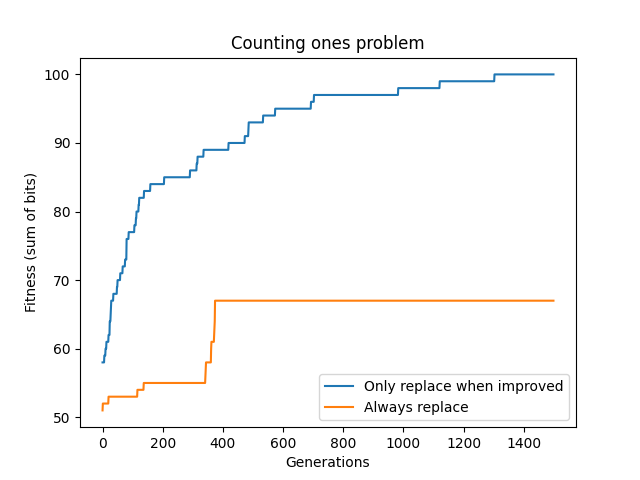
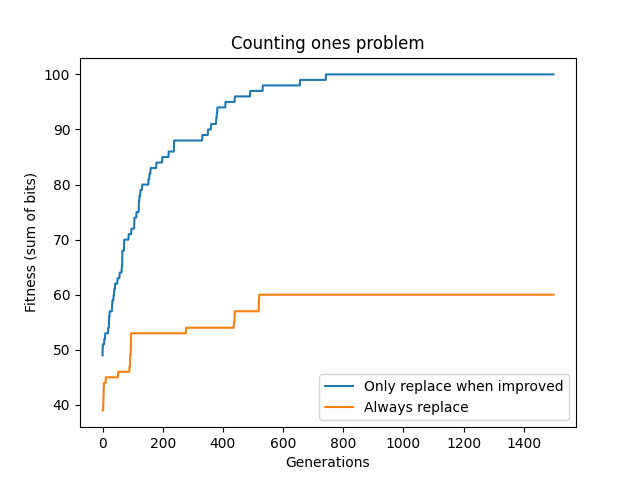
break after reaching target

diff --git a/assignment5/counting_ones.py b/assignment5/counting_ones.py
@@ -49,6 +49,9 @@ def question1(bit_string, generations=1500, mu=0.01):
     current_best_fitness = 0
     for i in range(0,generations):
         fitness = calculate_fitness(bit_string)
+        if fitness == len(bit_string):
+            best_fitness[i:] = len(bit_string)
+            return best_fitness
         if fitness > current_best_fitness: # conditionally update best_fitness if we find a new optimum
             current_best_fitness = fitness
             best_fitness[i] = fitness
@@ -71,6 +74,9 @@ def question2(bit_string, generations=1500, mu=0.01):
     current_best_fitness = 0
     for i in range(0,generations):
         fitness = calculate_fitness(bit_string)
+        if fitness == len(bit_string):
+            best_fitness[i:] = len(bit_string)
+            return best_fitness
         if fitness > current_best_fitness:
             current_best_fitness = fitness
             best_fitness[i] = fitness
